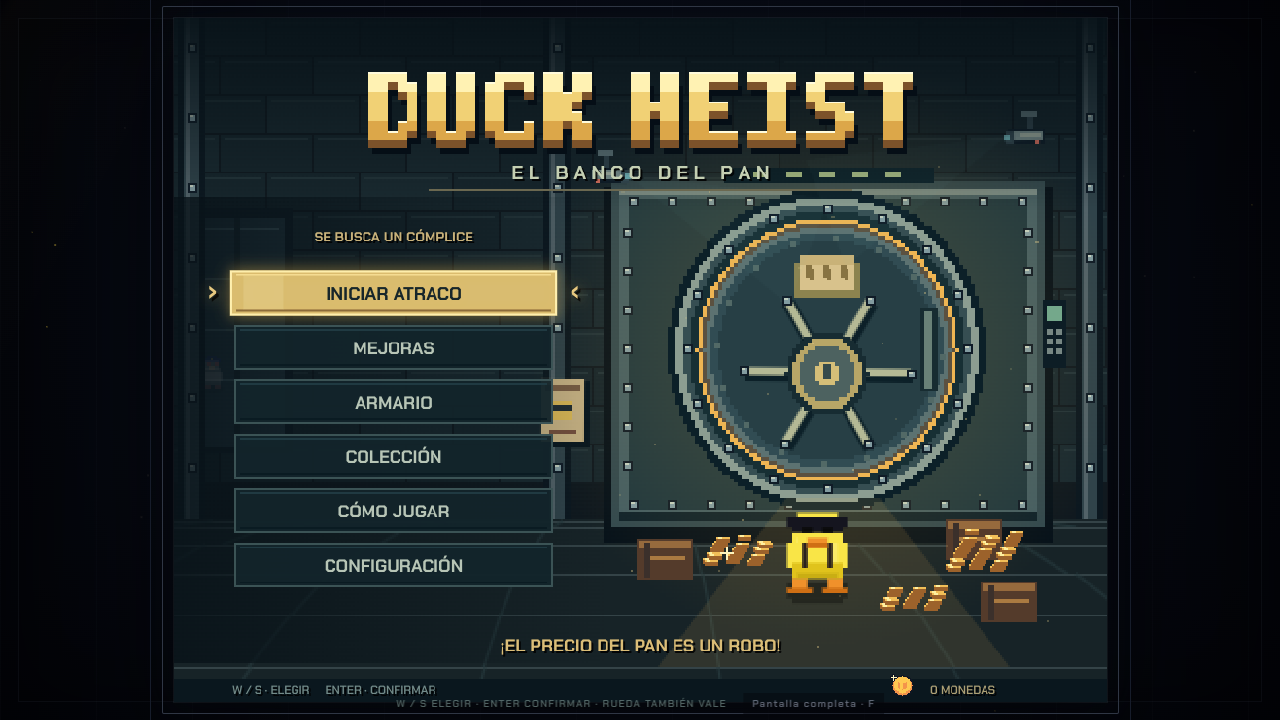
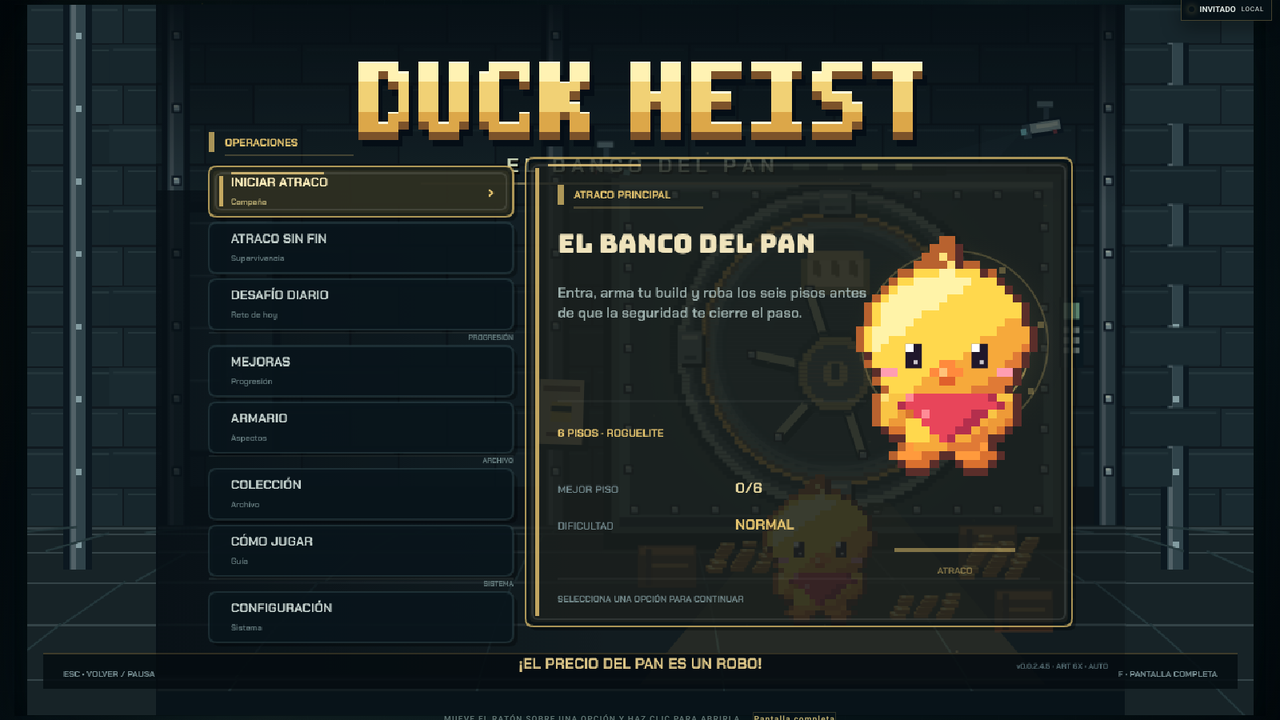
Sitio velcoregames.com: imágenes con los personajes nuevos
- pato-frente.png y pato-lado.png ahora son el Pollito ladrón (de frente y
  de lado, pixel art escalado x12 sin suavizar).
- Capturas nuevas del juego: menú, bóveda y combate (el pato con la pistola
  nueva contra policías pato y palomas de seguridad).
- Vistas previas al compartir (og-velcoregames.jpg y og-duck-heist.jpg)
  regeneradas con las capturas nuevas.
- Miniatura del catálogo del juego (duck-heist-gameplay.webp) y
  duck-heist-thumbnail.png actualizadas.

Claude-Session: https://claude.ai/code/session_01TrNjUs3EJnKYcS2FhrwGGf

diff --git a/sitio/index.html b/sitio/index.html
@@ -647,7 +647,7 @@ dialog.aviso::backdrop{background:rgba(3,4,10,.66);-webkit-backdrop-filter:blur(
 
       <a class="game-card" href="https://velcoregames.com/duck-heist-movil">
         <div class="game-art art-mobile">
-          <div class="phone" aria-hidden="true"><img class="px" src="media/pato-lado.png" width="256" height="376" alt=""><span class="pad l"></span><span class="pad r"></span></div>
+          <div class="phone" aria-hidden="true"><img class="px" src="media/pato-lado.png" width="288" height="376" alt=""><span class="pad l"></span><span class="pad r"></span></div>
           <span class="status"><span lang="es">En desarrollo</span><span lang="en">In development</span></span>
           <span class="game-n">02</span>
         </div>
